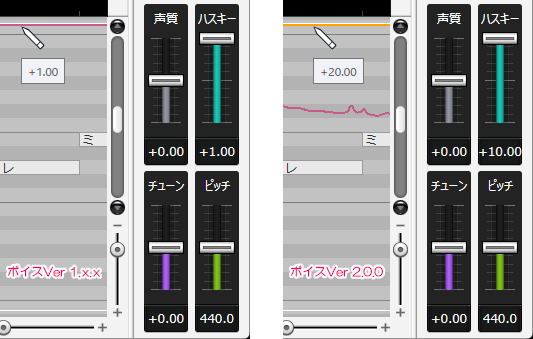
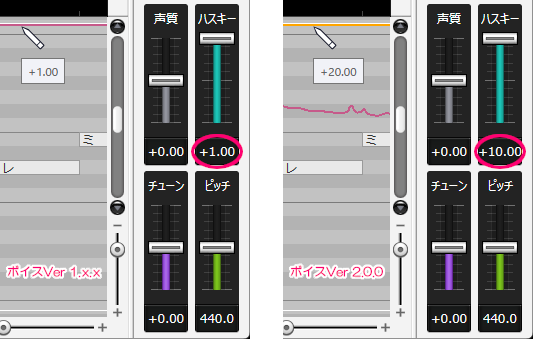
update 2024-03-06

Changed region(s): [[0.8705, 0.3835, 0.9906, 0.5015], [0.3602, 0.3835, 0.4803, 0.5015]]

diff --git a/docs/songtrack/CeVIO AI ユーザーズガイド ┃ 歌声の調整③（声質）.md b/docs/songtrack/CeVIO AI ユーザーズガイド ┃ 歌声の調整③（声質）.md
@@ -119,18 +119,21 @@
 
 ![](../../image/st05_07_w.png)
 
- ※既定値（初期値）はソングボイス バージョン2.0.0で写真のように、それ以外は直線で表示されます。
+ ※既定値（初期値）はソングボイス2.0.0で写真のように、それ以外は直線で表示されます。
    
 
   
 
- ※ソングボイスのバージョンに応じて、ハスキーの調整範囲（有効範囲）は切り替わります。
+**ハスキーの調整範囲**
+  
+
+ ソングボイスのバージョンに応じて、ハスキーの調整範囲（有効範囲）は切り替わります。
    
 
- バージョン1.x.x：-1.00～+1.00
+ ・ソングボイス1.x.x：-1.00～+1.00
    
 
- バージョン2.0.0：-20.00～+20.00（スライダーは -10.00～+10.00）
+ ・ソングボイス2.0.0：-20.00～+20.00（スライダーは -10.00～+10.00）
    
 
 
